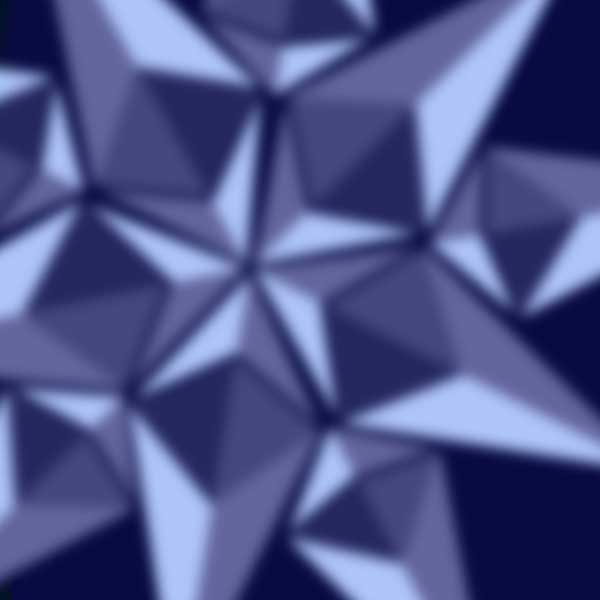
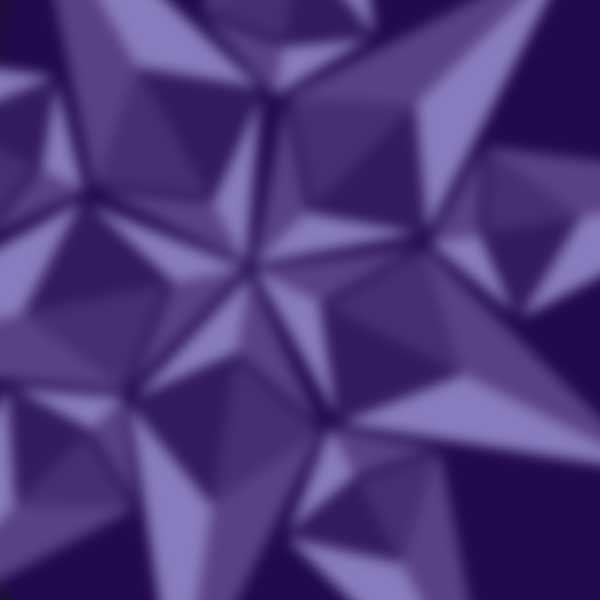
Auto-tip frame update

diff --git a/pages/api/frames/console/auto-tipping.jsx b/pages/api/frames/console/auto-tipping.jsx
@@ -17,51 +17,16 @@ const cache = new NodeCache({ stdTTL: 60 });
 
 
 export default async function handler(req, res) {
-  // const { id } = req.query
+  const { status, curators } = req.query
 
   // console.log('id', id)
   try {
     const fontPath = path.join(process.cwd(), 'public', 'Inter-SemiBold.ttf');
     const fontData = fs.readFileSync(fontPath);
 
-    // async function getCircle(id) {
-    //   try {
-    //     const objectId = new mongoose.Types.ObjectId(id)
-    //     console.log(id)
-    //     await connectToDatabase();
-    //     let circle = await Circle.findOne({ _id: objectId }).exec();
-    //     if (circle) {
-    //       return {circles: circle.circles, text: circle.text, username: circle.username}
-    //     } else {
-    //       return {circles: [], text: '', username: ''}
-    //     }
-    //   } catch (error) {
-    //     console.error("Error while fetching casts:", error);
-    //     return {circles: [], text: '', username: ''}
-    //   }  
-    // }
-
-    // let {circles, text, username} = await getCircle(id);
-
-    // if (circles?.length > 10) {
-    //   circles = circles.slice(0, 10)
-    // }
-
-    // const splitCircles = (arr) => {
-    //   // Calculate the midpoint
-    //   const midpoint = Math.ceil(arr.length / 2);
-    
-    //   // Split the array into two parts
-    //   const firstHalf = arr.slice(0, midpoint);
-    //   const secondHalf = arr.slice(midpoint);
-    
-    //   return [firstHalf, secondHalf];
-    // };
-
-    // const [firstHalf, secondHalf] = splitCircles(circles);
 
 
-    // const backgroundImg = `https://impact.abundance.id/images/background.jpg`
+    const backgroundImg = `https://impact.abundance.id/images/backgroundframe.jpg`
 
     const svg = await satori(
       <div style={{
@@ -70,23 +35,42 @@ export default async function handler(req, res) {
         padding: 30,
         display: 'flex',
         flexDirection: 'column',
-        background: `linear-gradient(135deg, #001144, #556699)`,
+        backgroundImage: `url(${backgroundImg})`,
+        backgroundSize: 'cover',
+        backgroundPosition: 'center',
+        backgroundColor: '#43238a',
         justifyContent: 'center',
         alignItems: 'center', 
       }}>
-        {/* <div style={{gap: '0.5rem', display: 'flex', flexDirection: 'row'}}>
-          {(firstHalf?.length > 0) ? (firstHalf.map((creator, index) => <img key={index} src={creator} width={90} height={90} style={{borderRadius: '80px', border: '2px solid #eee', backgroundColor: '#8363ca'}} />)) : (<div style={{height: '90px'}}>&nbsp;</div>)}
-        </div> */}
         <div style={{display: 'flex', flexDirection: 'column', color: 'white', 
         fontSize: '22px', alignItems: 'center', justifyContent: 'center'}}>
-          <div style={{display: 'flex', textAlign: 'center', color: '#eff', fontSize: '28px', margin: '5px 20px 40px 20px'}}>{`Auto-tip: automatically distribute your tip allowance to your nominees`}</div>
-          <div style={{display: 'flex', textAlign: 'center', color: '#cde', fontSize: '24px', margin: '5px 20px 40px 20px'}}>{`Auto-tip all: automatically distribute allowance to nominees throughout the ecosystem`}</div>
-          <div style={{display: 'flex', textAlign: 'center', color: '#eff', fontSize: '26px', margin: '5px 20px 40px 20px'}}>{`Add curator: auto distribute allowance to nominees of selected curators. Stop distribution to ecosystem if previously turned on`}</div>
-          <div style={{display: 'flex', textAlign: 'center', color: '#eff', fontSize: '26px', margin: '5px 20px 40px 20px'}}>{`Stop auto-tip: stops automatic allowance distribution`}</div>
+
+
+          <div style={{display: 'flex', flexDirection: 'column', color: 'black', alignItems: 'center', justifyContent: 'center', gap: '0.5rem', border: (status == 'curators') ? '1px solid #686cae99' : 'none', borderRadius: '16px', padding: '10px', margin: '15px', background: (status == 'curators') ? '#220a4dbb' : 'none', width: '500px'}}>
+
+            <div style={{display: 'flex', textAlign: 'center', color: '#eff', fontSize: '28px', margin: '5px 20px 5px 20px'}}>{`Auto-tip: automatically distribute your tip allowance to your nominees`}</div>
+
+          </div>
+
+          <div style={{display: 'flex', flexDirection: 'column', color: 'black', alignItems: 'center', justifyContent: 'center', gap: '0.5rem', border: (status == 'all') ? '1px solid #686cae99' : 'none', borderRadius: '16px', padding: '10px', margin: '15px', background: (status == 'all') ? '#220a4dbb' : 'none', width: '500px'}}>
+
+            <div style={{display: 'flex', textAlign: 'center', color: '#eff', fontSize: '24px', margin: '5px 20px 5px 20px'}}>{`Auto-tip all: automatically distribute allowance to nominees throughout the ecosystem`}</div>
+
+          </div>
+
+          <div style={{display: 'flex', flexDirection: 'column', color: 'black', alignItems: 'center', justifyContent: 'center', gap: '0.5rem', border: '1px solid #686cae99', borderRadius: '16px', padding: '10px', margin: '15px', background: '#220a4dbb', width: '500px'}}>
+
+            <div style={{display: 'flex', textAlign: 'center', color: '#eff', fontSize: '26px', margin: '5px 20px 5px 20px'}}>{`Add curator: auto distribute allowance to nominees of selected curators. Stop distribution to ecosystem if previously turned on`}</div>
+
+          </div>
+
+          <div style={{display: 'flex', flexDirection: 'column', color: 'black', alignItems: 'center', justifyContent: 'center', gap: '0.5rem', border: (status == 'off') ? '1px solid #686cae99' : 'none', borderRadius: '16px', padding: '10px', margin: '15px', background: (status == 'off') ? '#220a4dbb' : 'none ', width: '500px'}}>
+
+            <div style={{display: 'flex', textAlign: 'center', color: '#eff', fontSize: '26px', margin: '5px 20px 5px 20px'}}>{`Stop auto-tip: stops automatic allowance distribution`}</div>
+
+          </div>
+        
         </div>
-        {/* <div style={{gap: '0.5rem', display: 'flex', flexDirection: 'row'}}>
-          {(secondHalf?.length > 0) ? (secondHalf.map((creator, index) => <img key={index} src={creator} width={90} height={90} style={{borderRadius: '50px', border: '2px solid #eee'}} />)) : (<div style={{height: '90px'}}>&nbsp;</div>)}
-        </div> */}
       </div>
       ,
       {
@@ -106,7 +90,7 @@ export default async function handler(req, res) {
 
     // Set the content type to PNG and send the response
     res.setHeader('Content-Type', 'image/png');
-    res.setHeader('Cache-Control', 'max-age=10');
+    res.setHeader('Cache-Control', 'no-store, max-age=0');
     res.send(pngBuffer);
   } catch (error) {
     console.error(error);

diff --git a/pages/api/frames/console/auto-tip-self.js b/pages/api/frames/console/auto-tip-self.js
@@ -32,7 +32,7 @@ export default async function handler(req, res) {
     // const authorFid = req.body.untrustedData.castId.fid
     // console.log('28', points, curatorFid, castHash)
 
-    let autoTipImg = `${baseURL}/api/frames/console/auto-tipping`
+    let autoTipImg = `${baseURL}/api/frames/console/auto-tipping?${qs.stringify({ status: 'self', curators: [curatorFid] })}`
 
     let button1 = `<meta property="fc:frame:button:1" content='Stop auto-tip' />
     <meta property="fc:frame:button:1:action" content="post" />
@@ -74,6 +74,7 @@ export default async function handler(req, res) {
     const {encryptedUuid, ecosystem} = await getUuid(curatorFid, pt)
 
     if (!encryptedUuid) {
+      autoTipImg = `${baseURL}/api/frames/console/auto-tipping?${qs.stringify({ status: 'off', curators: [] })}`
 
       button1 = `<meta property="fc:frame:button:1" content='Login' />
       <meta property="fc:frame:button:1:action" content="link" />
@@ -192,6 +193,12 @@ export default async function handler(req, res) {
   
       if (schedule) {
 
+        if (schedule.search_curators.length > 0) {
+          autoTipImg = `${baseURL}/api/frames/console/auto-tipping?${qs.stringify({ status: 'curators', curators: schedule?.search_curators })}`
+        } else {
+          autoTipImg = `${baseURL}/api/frames/console/auto-tipping?${qs.stringify({ status: 'self', curators: [curatorFid] })}`
+        }
+        
         button1 = `<meta property="fc:frame:button:1" content='Stop auto-tip' />
         <meta property="fc:frame:button:1:action" content="post" />
         <meta property="fc:frame:button:1:target" content='https://impact.abundance.id/api/frames/console/auto-tip-stop?${qs.stringify({ iB, qB, qT, author, iA, qA, ec, login, pt, cu, impact, ql, cI, hash, handle })}' />`
@@ -211,6 +218,8 @@ export default async function handler(req, res) {
         textField = `<meta name="fc:frame:input:text" content="Search for curator" />`
 
       } else {
+
+        autoTipImg = `${baseURL}/api/frames/console/auto-tipping?${qs.stringify({ status: 'off', curators: [] })}`
 
         button1 = `<meta property="fc:frame:button:1" content='Auto-tip' />
         <meta property="fc:frame:button:1:action" content="post" />

diff --git a/pages/api/frames/console/auto-tip-all.js b/pages/api/frames/console/auto-tip-all.js
@@ -32,7 +32,7 @@ export default async function handler(req, res) {
     // const authorFid = req.body.untrustedData.castId.fid
     // console.log('28', points, curatorFid, castHash)
 
-    let autoTipImg = `${baseURL}/api/frames/console/auto-tipping`
+    let autoTipImg = `${baseURL}/api/frames/console/auto-tipping?${qs.stringify({ status: 'all', curators: [] })}`
 
     let button1 = `<meta property="fc:frame:button:1" content='Stop auto-tip' />
     <meta property="fc:frame:button:1:action" content="post" />
@@ -72,6 +72,8 @@ export default async function handler(req, res) {
     const {encryptedUuid, ecosystem} = await getUuid(curatorFid, pt)
 
     if (!encryptedUuid) {
+
+      autoTipImg = `${baseURL}/api/frames/console/auto-tipping?${qs.stringify({ status: 'off', curators: [] })}`
 
       button1 = `<meta property="fc:frame:button:1" content='Login' />
       <meta property="fc:frame:button:1:action" content="link" />
@@ -192,6 +194,12 @@ export default async function handler(req, res) {
   
       if (schedule) {
 
+        if (schedule?.search_curators.length > 0) {
+          autoTipImg = `${baseURL}/api/frames/console/auto-tipping?${qs.stringify({ status: 'curators', curators: schedule?.search_curators })}`
+        } else {
+          autoTipImg = `${baseURL}/api/frames/console/auto-tipping?${qs.stringify({ status: 'all', curators: [] })}`
+        }
+
         button1 = `<meta property="fc:frame:button:1" content='Stop auto-tip' />
         <meta property="fc:frame:button:1:action" content="post" />
         <meta property="fc:frame:button:1:target" content='https://impact.abundance.id/api/frames/console/auto-tip-stop?${qs.stringify({ iB, qB, qT, author, iA, qA, ec, login, pt, cu, impact, ql, cI, hash, handle })}' />`
@@ -211,6 +219,8 @@ export default async function handler(req, res) {
         textField = `<meta name="fc:frame:input:text" content="Search for curator" />`
 
       } else {
+
+        autoTipImg = `${baseURL}/api/frames/console/auto-tipping?${qs.stringify({ status: 'off', curators: [] })}`
 
         button1 = `<meta property="fc:frame:button:1" content='Auto-tip' />
         <meta property="fc:frame:button:1:action" content="post" />

diff --git a/pages/api/frames/console/auto-tip.js b/pages/api/frames/console/auto-tip.js
@@ -32,7 +32,7 @@ export default async function handler(req, res) {
     // const authorFid = req.body.untrustedData.castId.fid
     // console.log('28', points, curatorFid, castHash)
 
-    let autoTipImg = `${baseURL}/api/frames/console/auto-tipping`
+    let autoTipImg = `${baseURL}/api/frames/console/auto-tipping?${qs.stringify({ status: 'all', curators: [] })}`
 
     let button1 = `<meta property="fc:frame:button:1" content='Stop auto-tip' />
     <meta property="fc:frame:button:1:action" content="post" />
@@ -72,6 +72,8 @@ export default async function handler(req, res) {
     const {encryptedUuid, ecosystem} = await getUuid(curatorFid, pt)
 
     if (!encryptedUuid) {
+
+      autoTipImg = `${baseURL}/api/frames/console/auto-tipping?${qs.stringify({ status: 'off', curators: [] })}`
 
       button1 = `<meta property="fc:frame:button:1" content='Login' />
       <meta property="fc:frame:button:1:action" content="link" />
@@ -168,6 +170,12 @@ export default async function handler(req, res) {
   
       if (schedule) {
 
+        if (schedule?.search_curators.length > 0) {
+          autoTipImg = `${baseURL}/api/frames/console/auto-tipping?${qs.stringify({ status: 'curators', curators: schedule?.search_curators })}`
+        } else {
+          autoTipImg = `${baseURL}/api/frames/console/auto-tipping?${qs.stringify({ status: 'all', curators: [] })}`
+        }
+
         button1 = `<meta property="fc:frame:button:1" content='Stop auto-tip' />
         <meta property="fc:frame:button:1:action" content="post" />
         <meta property="fc:frame:button:1:target" content='https://impact.abundance.id/api/frames/console/auto-tip-stop?${qs.stringify({ iB, qB, qT, author, iA, qA, ec, login, pt, cu, impact, ql, cI, hash, handle })}' />`
@@ -187,6 +195,8 @@ export default async function handler(req, res) {
         textField = `<meta name="fc:frame:input:text" content="Search for curator" />`
 
       } else {
+
+        autoTipImg = `${baseURL}/api/frames/console/auto-tipping?${qs.stringify({ status: 'off', curators: [] })}`
 
         button1 = `<meta property="fc:frame:button:1" content='Auto-tip' />
         <meta property="fc:frame:button:1:action" content="post" />

diff --git a/pages/api/frames/console/balance.jsx b/pages/api/frames/console/balance.jsx
@@ -38,7 +38,7 @@ export default async function handler(req, res) {
     let castQdauCount = qT || 0
     let castQdauBalance = qB || 0
 
-    const backgroundImg = `https://impact.abundance.id/images/backgroundframe2.jpg`
+    const backgroundImg = `https://impact.abundance.id/images/backgroundframe.jpg`
 
     const svg = await satori(
       <div style={{
@@ -134,7 +134,7 @@ export default async function handler(req, res) {
 
     // Set the content type to PNG and send the response
     res.setHeader('Content-Type', 'image/png');
-    res.setHeader('Cache-Control', 'max-age=10');
+    res.setHeader('Cache-Control', 'no-store, max-age=0');
     res.send(pngBuffer);
   } catch (error) {
     console.error(error);
